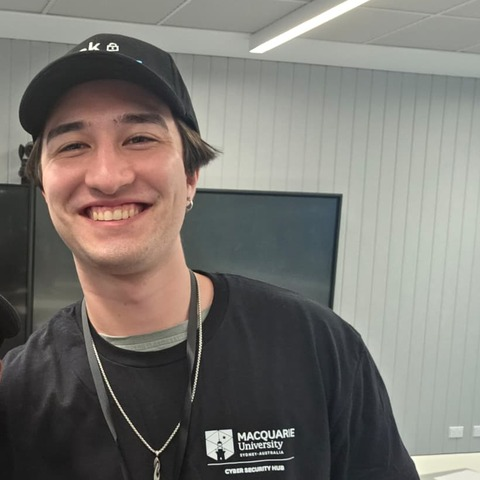
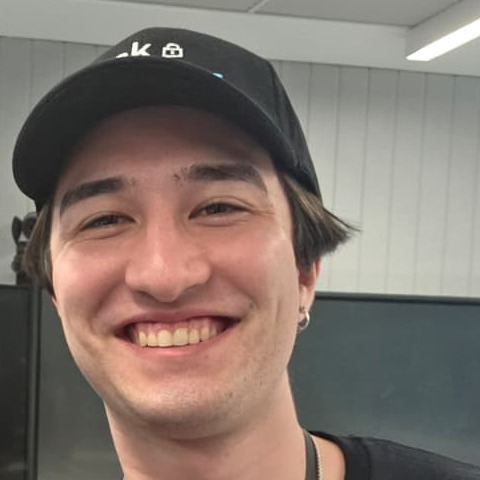
Add team degrees, rename Shah, recrop Kai photo

diff --git a/app/about/page.tsx b/app/about/page.tsx
@@ -10,13 +10,15 @@ const team = [
     contribution: 'Timber Yard design system, product design and cutting-plan UI.',
     github: 'https://github.com/KaiCryan',
     photo: '/team/kai.jpg',
+    degree: null,
   },
   {
-    name: 'Shah Noor Mostafa',
+    name: 'Shah',
     role: 'Engineering',
     contribution: 'Cutting-plan engine and shared exchange backend.',
     github: 'https://github.com/shahnoormostafa-coder',
     photo: '/team/shah.jpg',
+    degree: 'Bachelor of Information Technology (Cybersecurity & BIS)',
   },
   {
     name: 'Jaycee',
@@ -24,6 +26,7 @@ const team = [
     contribution: null,
     github: 'https://github.com/jayceemaimia-debug',
     photo: '/team/jaycee.jpg',
+    degree: 'International Relations & Political Science · Victoria University of Wellington',
   },
   {
     name: 'Tasfia',
@@ -31,6 +34,7 @@ const team = [
     contribution: null,
     github: 'https://github.com/tasfiadija1',
     photo: null,
+    degree: 'Bachelor of Computer Engineering (Software) · University of Sydney',
   },
   {
     name: 'Shelly',
@@ -38,6 +42,7 @@ const team = [
     contribution: null,
     github: 'https://github.com/ui-ue',
     photo: '/team/shelly.jpg',
+    degree: 'Bachelor of Engineering/Science (Honours) · Macquarie University',
   },
 ];
 
@@ -160,7 +165,7 @@ export default function Page() {
                 <div className="about-person-copy">
                   <h3>{member.name}</h3>
                   <span className="about-person-role">{member.role}</span>
-                  <span className="about-placeholder">[Degree · University placeholder]</span>
+                  <span className="about-placeholder">{member.degree ?? '[Degree · University placeholder]'}</span>
                 </div>
                 {member.contribution && <p className="about-contribution">{member.contribution}</p>}
                 <div className="about-person-links">
